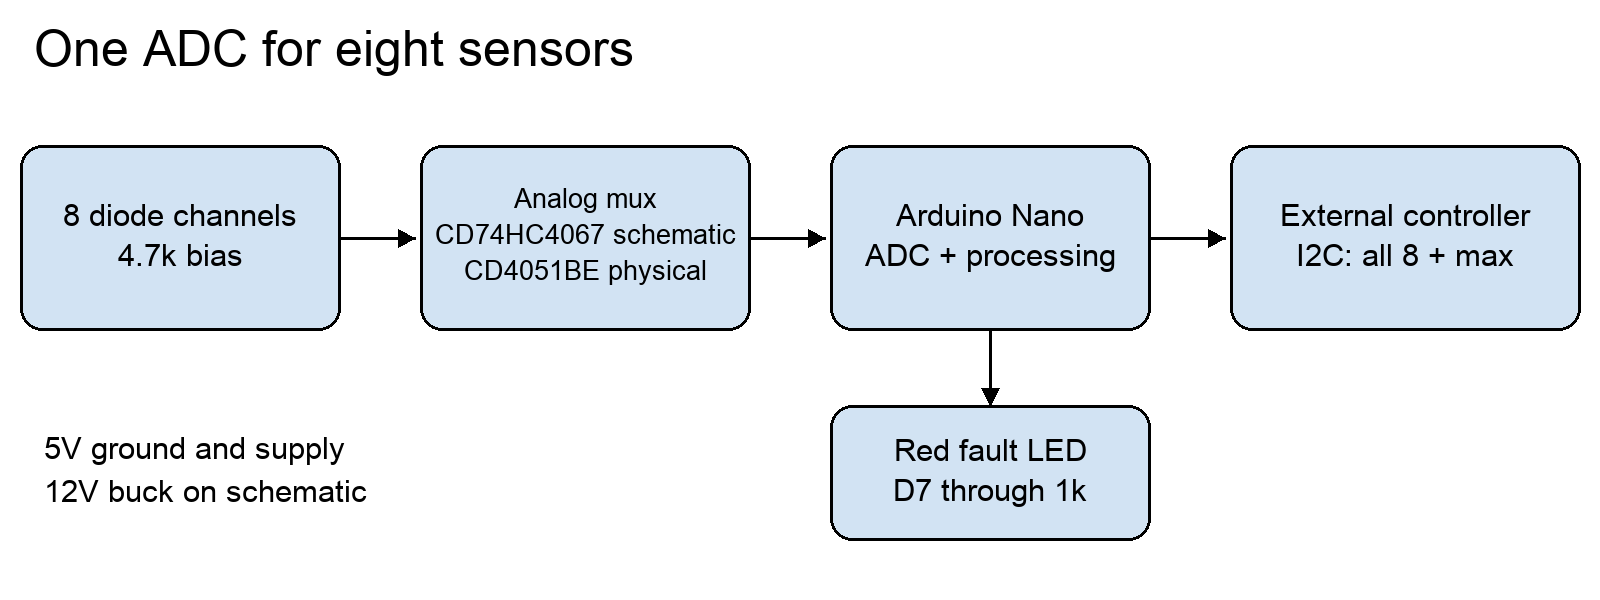
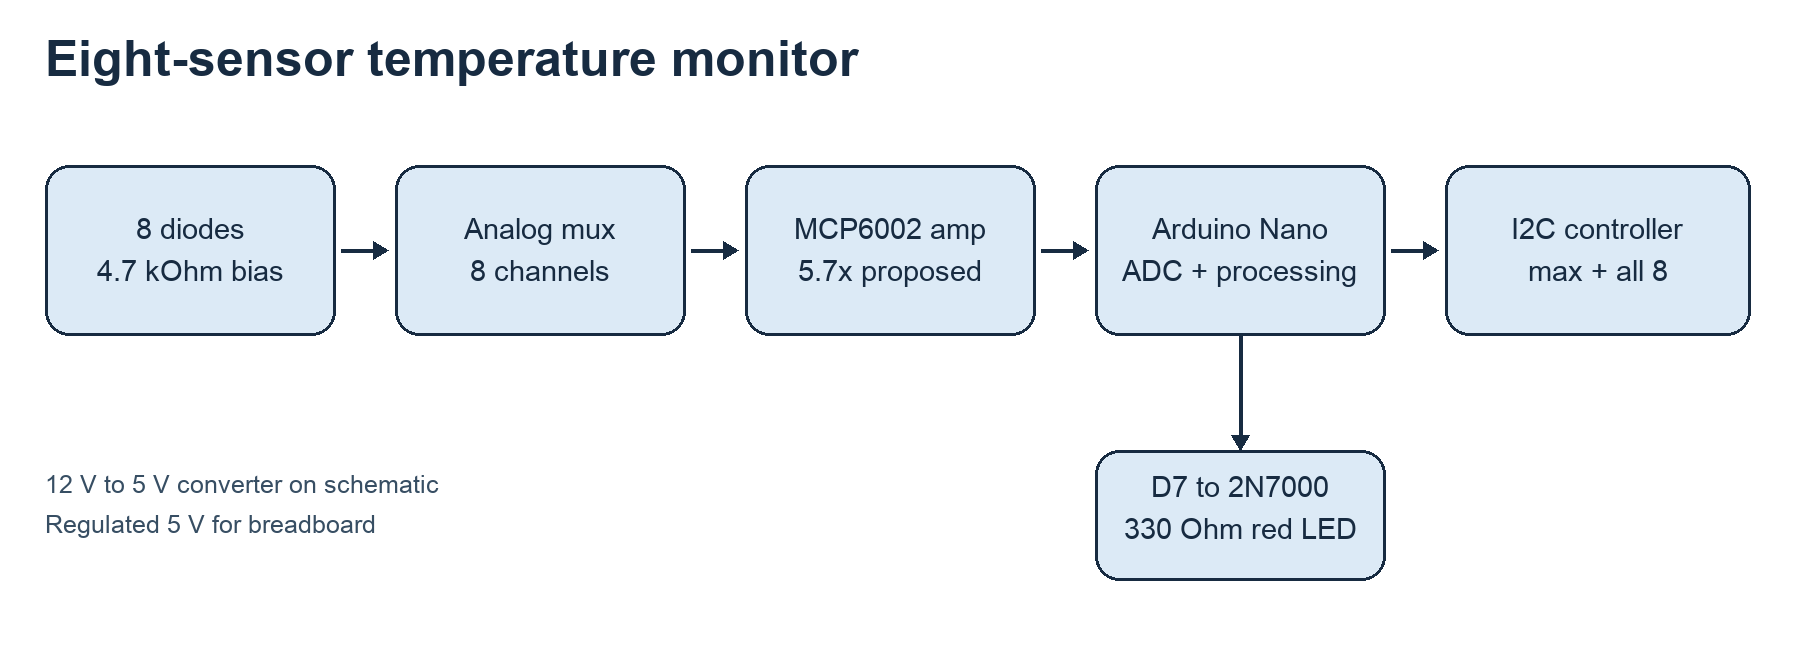
Update design document

diff --git a/docs/design-document.md b/docs/design-document.md
@@ -1,61 +1,70 @@
-# Design Document for 8-Sensor Temperature Monitor
+# Design Document for the 8-Sensor Temperature Monitor
 
-RFR Group 02 - October 18, 2026
+RFR Group 02
+November 13, 2026
 
-## Circuit Description
+## Purpose and current status
 
-![Circuit signal path](figures/architecture.png)
+This project uses an Arduino Nano to read eight temperature-sensitive diodes. It reports the highest valid temperature and all eight readings over I2C. A red LED blinks when the highest reading is above 60 degrees Celsius or when a sensor appears faulty.
 
-Figure 1. One Arduino Nano ADC input reads eight diode channels through the multiplexer.
+The Arduino sketch compiled in the Arduino IDE and was uploaded to the Nano. The eight-diode circuit has not been powered and tested as a complete system. The diode part number is still unknown, so the temperatures in the code use example calibration values. The schematic shows some parts that have not been confirmed on the photographed breadboard. Those differences are described below.
 
-The design uses eight temperature-sensitive diodes. The Altium schematic keeps the originally specified CD74HC4067 multiplexer, with only channels 0 through 7 connected. The physical circuit uses the newly specified CD4051BE 8:1 multiplexer. The Arduino Nano selects each diode, reads its voltage through A0, and estimates its temperature using the Analog-to-Digital Converter (ADC). If a temperature exceeds 60 degrees Celsius or a sensor reading appears faulty, the Nano blinks a red LED. The readings are available over I2C.
+## Circuit path
 
-This document describes a proposed design. It has not been built or tested. We do not know the exact part number for our diodes. At this time, we are estimating temperatures based upon example calibration values. Once we have the supplied diodes in the shop, we will measure them and update our calculations accordingly.
+![Eight-sensor circuit path](figures/architecture.png)
 
-## Component Choices
+Figure 1. The eight diode signals share one ADC input. The amplifier is shown in the updated schematic but has not been confirmed on the breadboard.
 
-Each diode has a 4.7 kOhm resistor placed between 5 volts and its anode. The cathode of each diode connects directly to ground. The voltage at the junction between the resistor and diode is the temperature signal. By giving each diode its own series resistor, we keep each diode biased while the multiplexer switches among channels. The photographed breadboard connects the multiplexer output directly to Nano pin A0. The updated reference schematic puts an MCP6002 amplifier between them. Pins D2 through D4 control the three select lines. Pin D6 controls whether or not the multiplexer is enabled. On the schematic's CD74HC4067, S3 is tied to ground and channels 8 through 15 are unused.
+Each diode has its own 4.7 kOhm resistor from 5 V. The diode's cathode goes to ground. The voltage where the resistor meets the diode is the sensor signal. A separate resistor keeps each diode biased even while the multiplexer is reading another channel.
 
-The CD4051BE used on the breadboard has a different pinout from the CD74HC4067 shown on the schematic. Connect Nano D2, D3, and D4 to the CD4051BE A, B, and C inputs on pins 11, 10, and 9. Connect D6 to inhibit pin 6 and A0 to common pin 3. Connect 5 volts to VDD pin 16. Connect both VSS pin 8 and VEE pin 7 to ground. The eight diode signals connect to channel pins 13, 14, 15, 12, 1, 5, 2, and 4 in channel order from 0 to 7.
+The Altium schematic keeps the originally required CD74HC4067. It uses channels 0 through 7, connects its fourth select line to ground, and leaves channels 8 through 15 unused. The physical breadboard design uses the CD4051BE 8-channel multiplexer instead. These chips do the same switching job, but their pins are different. Nano pins D2, D3, and D4 select a channel, D6 controls the multiplexer enable input, and A0 reads its output.
 
-The uploaded firmware uses the Nano's 1.1-volt ADC reference for the direct diode signal. This choice results in smaller voltage increments compared to using the 5-volt reference. The updated schematic adds an MCP6002 amplifier with a 47-kiloohm feedback resistor and a 10-kiloohm resistor to ground. Its nominal gain is 1 + 47 / 10 = 5.7. An approximately 0.65-volt diode signal would become about 3.7 volts, so this amplifier cannot be used with the firmware's 1.1-volt reference. Before building the amplified path, the firmware must use a suitable ADC reference and new calibration values. The second amplifier is connected as a grounded follower. A 1-nanofarad capacitor at A0 helps filter transient voltages caused by switching. Following a switch to a new channel, the software waits for 100 microseconds before performing a single conversion. Next, it takes eight additional conversions and calculates their average. While averaging reduces noise, it does nothing to improve calibration.
+We chose one multiplexer and one Nano ADC input because the Nano can read the channels one at a time. This uses fewer Nano analog pins than connecting every diode to its own input. It also keeps the code simple. The tradeoff is that the eight readings are taken in sequence rather than at exactly the same moment.
 
-The updated schematic drives the red LED from 5 volts through a 330-ohm resistor and a 2N7000 MOSFET controlled by Nano pin D7. A 10-kiloohm resistor pulls the MOSFET gate to ground. Pins A4 and A5 provide the SDA and SCL lines for the I2C bus. Both lines have a 4.7-kiloohm pull-up resistor to 5 volts. The four-pin I2C connector also carries 5 volts and ground. The second device on the I2C bus must either support 5-volt signaling or be connected through a level translator. All ground connections should be tied together.
+## Power and output hardware
 
-Our schematic shows a 12-to-5-volt switching regulator. For the breadboard, we will use the supplied regulated 5-volt source instead of physically building that regulator. The regulator remains in the schematic. A jumper selects either the regulator’s 5-volt output or the supplied 5-volt source. It must not connect both. Power is delivered to the Nano through its 5V pin, not its VIN pin.
+The schematic includes a 12 V to 5 V DC/DC converter, as required by the project. The breadboard is intended to use the supplied regulated 5 V source instead. The two 5 V sources must not be connected together. The 5 V supply goes to the Nano's 5V pin, not its VIN pin. The schematic also includes small capacitors on the converter input and output to reduce supply noise.
 
-## Pin Connections for the Nano
+The updated schematic shows a red LED powered through a 330 Ohm resistor and switched to ground by a 2N7000 MOSFET. Nano pin D7 controls the MOSFET gate. A 10 kOhm resistor holds the gate low while the Nano is starting up. Assuming about 2 V across the LED, its approximate current is (5 V - 2 V) / 330 Ohm = 9 mA. The MOSFET and its wiring still need to be checked against the physical circuit.
 
-A0: Direct multiplexer output on the photographed breadboard or MCP6002 output in the updated schematic. D2-D4: Multiplexer channel select lines. D6: Multiplexer enable line. D7: Red LED control through the 2N7000 gate. A4 and A5: I2C SDA and SCL lines. D5 is unused.
+The I2C connector has SDA, SCL, 5 V, and ground. Nano pins A4 and A5 carry SDA and SCL. Each line has a 4.7 kOhm pull-up resistor to 5 V. An external controller must share ground with the Nano and must support 5 V I2C signals or use a level translator.
 
-## Temperature Calculations and Conversion
+## ADC and temperature calculations
 
-Assuming a typical diode voltage of 0.650 volts at 25 degrees Celsius, the current flowing through the 4.7-kiloohm resistor would be (5.0 - 0.650) / 4700 = 0.00093 amps or 0.93 milliamps. In total, all 8 diodes combined would draw approximately 7.4 milliamps. Assuming the red LED drops 2 volts, the current through the LED would be (5 - 2) / 1000 = 3 milliamps. Again, these are just rough estimates to allow us to compare against component specifications during construction.
+At an assumed diode voltage of 0.65 V, the current through one 4.7 kOhm bias resistor is (5 V - 0.65 V) / 4700 Ohm = 0.00093 A, or about 0.93 mA. Eight channels draw about 7.4 mA from their bias resistors. This is only an estimate until the actual diodes are measured.
 
-The Nano’s ADC has 1024 possible values. Given a 1.1-volt reference, each value corresponds to approximately 1.1 / 1024 = 1.07 millivolts. Therefore, the estimated voltage can be calculated as V = ADC Value * 1.1 / 1024. If we assume a slope of -2 millivolts per degree Celsius, then each individual ADC step would correspond to approximately 0.54 degrees Celsius. Again, this represents resolution, not accuracy.
+The uploaded code uses the Nano's internal 1.1 V ADC reference for the direct diode signal. The ADC has 1024 steps, so one step is about 1.1 V / 1024 = 1.07 mV. If a diode changes by about 2 mV per degree Celsius, one ADC step represents about 0.54 degrees Celsius. This is resolution, not accuracy. The real diode slope and ADC reference voltage must be measured before the reported temperatures can be trusted.
 
-## Calibration Process
+The updated schematic also shows an MCP6002 amplifier between the multiplexer and A0. Its 47 kOhm feedback resistor and 10 kOhm resistor to ground give a nominal gain of 1 + 47 / 10 = 5.7. A 0.65 V input would therefore produce about 3.7 V. The second amplifier is connected as a grounded follower so it is not left floating. The amplifier is a proposed schematic feature. It cannot be used with the uploaded firmware's 1.1 V ADC reference because the ADC reading would saturate. If the amplifier is built, the firmware must use a suitable reference and be recalibrated before testing temperatures.
 
-Prior to utilizing the system, we must calibrate each diode. To accomplish this task, we need to determine the voltage produced by each diode at two distinct temperatures. From there, we can calculate the slope as (V2 - V1) / (T2 - T1). Once we have determined the slope for each diode, we can utilize that slope along with a measurement taken at one of those measured temperatures to convert voltage to temperature. Prior to accepting the warning threshold, we recommend verifying a reading near 60 degrees Celsius. Ultimately, we must measure the actual reference voltage used by the Nano’s ADC. Until such time as we perform those measurements, the software will continue to report readings as being uncalibrated.
+## Program flow and engineering choices
 
-## Output Over I2C Interface
+![Program flowchart](figures/flowchart.png)
 
-The Nano is designed to scan channels 0 through 7 about every 50 milliseconds. The actual timing still needs to be measured. Readings that fall outside of a predetermined range (near zero, saturated, etc.) are ignored. The maximum remaining temperature is reported. Should a sensor fail, the LED will blink. The warning light will illuminate once the temperature rises above 60 degrees Celsius and extinguish once the temperature falls to 58 degrees Celsius or lower if all sensors are functioning properly. A two-degree margin exists to prevent rapid on/off transitions near the threshold.
+Figure 2. The Nano reads every channel, finds the highest valid temperature, updates the LED, and makes the data available over I2C.
 
-The Nano operates as an I2C slave device with a 7-bit address of 0x32. An external master device sends a page number (0 or 1) to the Nano. Following receipt of the page number, the Nano responds with 22 bytes of data. Page 0 contains the maximum temperature. Page 1 contains the temperatures for sensors 0 through 7. Each page starts with a version byte, followed by a page number byte, then a two-byte sequence number, a status byte, and a hottest-channel number byte. Each temperature is represented as a signed 16-bit integer value in hundredths of a degree Celsius. A value of -32768 indicates an invalid reading. The external controller should use pages with matching sequence numbers. Otherwise, it should read them again.
+For each channel, the code changes the multiplexer selection, waits 100 microseconds, and discards the first ADC reading. This gives the signal time to settle after switching. It then averages eight readings. We chose a simple average because it reduces random ADC noise without adding more circuit parts or much code. Averaging does not fix a wrong calibration value, and a median filter might handle isolated spikes better. We can change the filtering after measuring the real hardware.
 
-## Byte Layout
+The code checks whether the voltage is between 0.25 V and 0.95 V and whether the calculated temperature is between -40 and 125 degrees Celsius. Readings outside these example limits are marked invalid. It finds the highest valid temperature in one pass through the eight results. Sorting all the temperatures would do extra work when only the highest value is needed.
 
-Bytes 0-1: version and page number. Bytes 2-3: scan sequence. Bytes 4-5: status flags and hottest channel. Page 0, bytes 6-7: maximum temperature. Page 1, bytes 6-21: temperatures for sensors 0-7. The unused bytes on Page 0 are zero. Status flags indicate a high temperature, sensor fault, incomplete calibration, and data availability.
+The high-temperature alert starts above 60 degrees Celsius. It clears at 58 degrees Celsius or lower, and only when all sensors are valid. The 2-degree gap prevents the LED from rapidly turning on and off when a reading stays close to 60 degrees. A sensor fault also makes the LED blink. The code aims to start a new scan about every 50 milliseconds, but the timing has not been measured on the complete circuit.
 
-## Remaining Tasks Before Demonstration
+## I2C data
 
-Identify the diodes and verify the Nano model. Check the 5-volt rail and diode polarity before applying power. Build one channel, then all 8 channels with the CD4051BE. Measure the ADC reference voltage and calibrate each diode, including a check near 60 degrees Celsius. Test every channel, the I2C output, the LED threshold, and the scan timing. Record the results.
+The Nano is an I2C device at address 0x32. An external controller selects page 0 or page 1 and reads 22 bytes. Page 0 contains the highest valid temperature. Page 1 contains all eight sensor temperatures. Using two short pages lets a controller request only the maximum when it does not need every reading.
 
-The hardware and software deadline is Nov. 1. Testing is part of showing that the hardware and software work. It is not an Oct. 18 deadline.
+Each page starts with a version number, page number, scan number, status flags, and the number of the hottest channel. Temperatures are sent as signed numbers in hundredths of a degree Celsius. A value of -32768 means that a reading is invalid. The controller should compare the scan numbers on the two pages if it needs results from the same scan. A status flag says that calibration is incomplete.
 
-Our Altium file opens in Altium Designer. However, we have not yet obtained a clean electrical rule check result or an Altium-native PDF export. The schematic PDF included with the project is a separate review copy. The added amplifier and MOSFET have not been confirmed on the photographed breadboard. The firmware uploaded to the Nano still uses the direct-input design. Currently, the virtual machine is displaying a Professional roaming license. Since this project requires a Student Edition license, the group needs to verify which type of license is acceptable to the reviewers.
+## What remains to be checked
+
+Before treating the system as working, we need to identify the diodes, confirm the multiplexer and MOSFET part markings, and check the breadboard wiring and supply voltage. We then need to measure and calibrate each diode, test a reading near 60 degrees Celsius, check the LED response, read both I2C pages with an external controller, and measure scan timing. The amplifier shown on the schematic must either be built with matching firmware or be clearly identified as a proposed feature. The Altium project still needs an electrical-rule check and an Altium-native PDF export.
+
+The complete [schematic PDF](../hardware/schematic.pdf) and [Altium project](../hardware/altium/rfr27-temperature-monitor.PrjPcb) are included in the repository.
 
 ## References
 
-Texas Instruments CD74HC4067 and [CD4051BE data sheets](https://www.ti.com/lit/ds/symlink/cd4051b.pdf), [Microchip MCP6002 data sheet](https://www.microchip.com/content/dam/mchp/documents/MSLD/ProductDocuments/DataSheets/MCP6001-1R-1U-2-4-1-MHz-Low-Power-Op-Amp-DS20001733L.pdf), [onsemi 2N7000 data sheet](https://www.onsemi.com/pdf/datasheet/nds7002a-d.pdf), Microchip ATmega328P data sheet, Arduino Nano pinout diagram, and RECOM R-78E-0.5 data sheet.
+- [Texas Instruments CD74HC4067 data sheet](https://www.ti.com/lit/ds/symlink/cd74hc4067.pdf)
+- [Texas Instruments CD4051B data sheet](https://www.ti.com/lit/ds/symlink/cd4051b.pdf)
+- [Microchip MCP6002 data sheet](https://www.microchip.com/content/dam/mchp/documents/MSLD/ProductDocuments/DataSheets/MCP6001-1R-1U-2-4-1-MHz-Low-Power-Op-Amp-DS20001733L.pdf)
+- [onsemi 2N7000 data sheet](https://www.onsemi.com/pdf/datasheet/nds7002a-d.pdf)
+- [RECOM R-78E-0.5 data sheet](https://recom-power.com/pdf/Innoline/R-78E-0.5.pdf)
